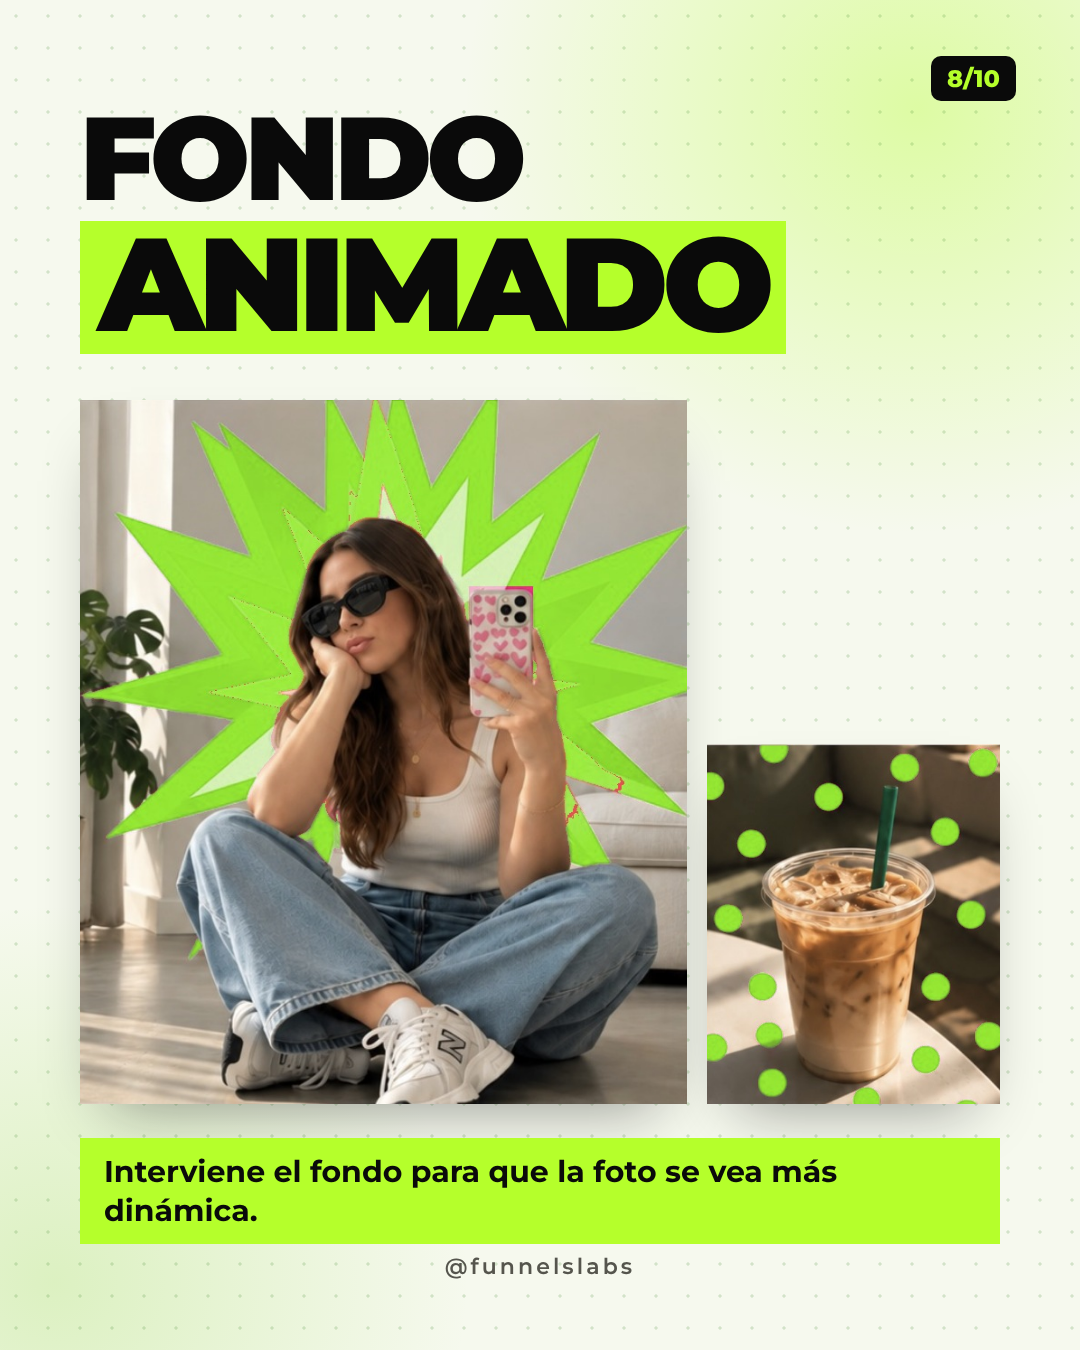
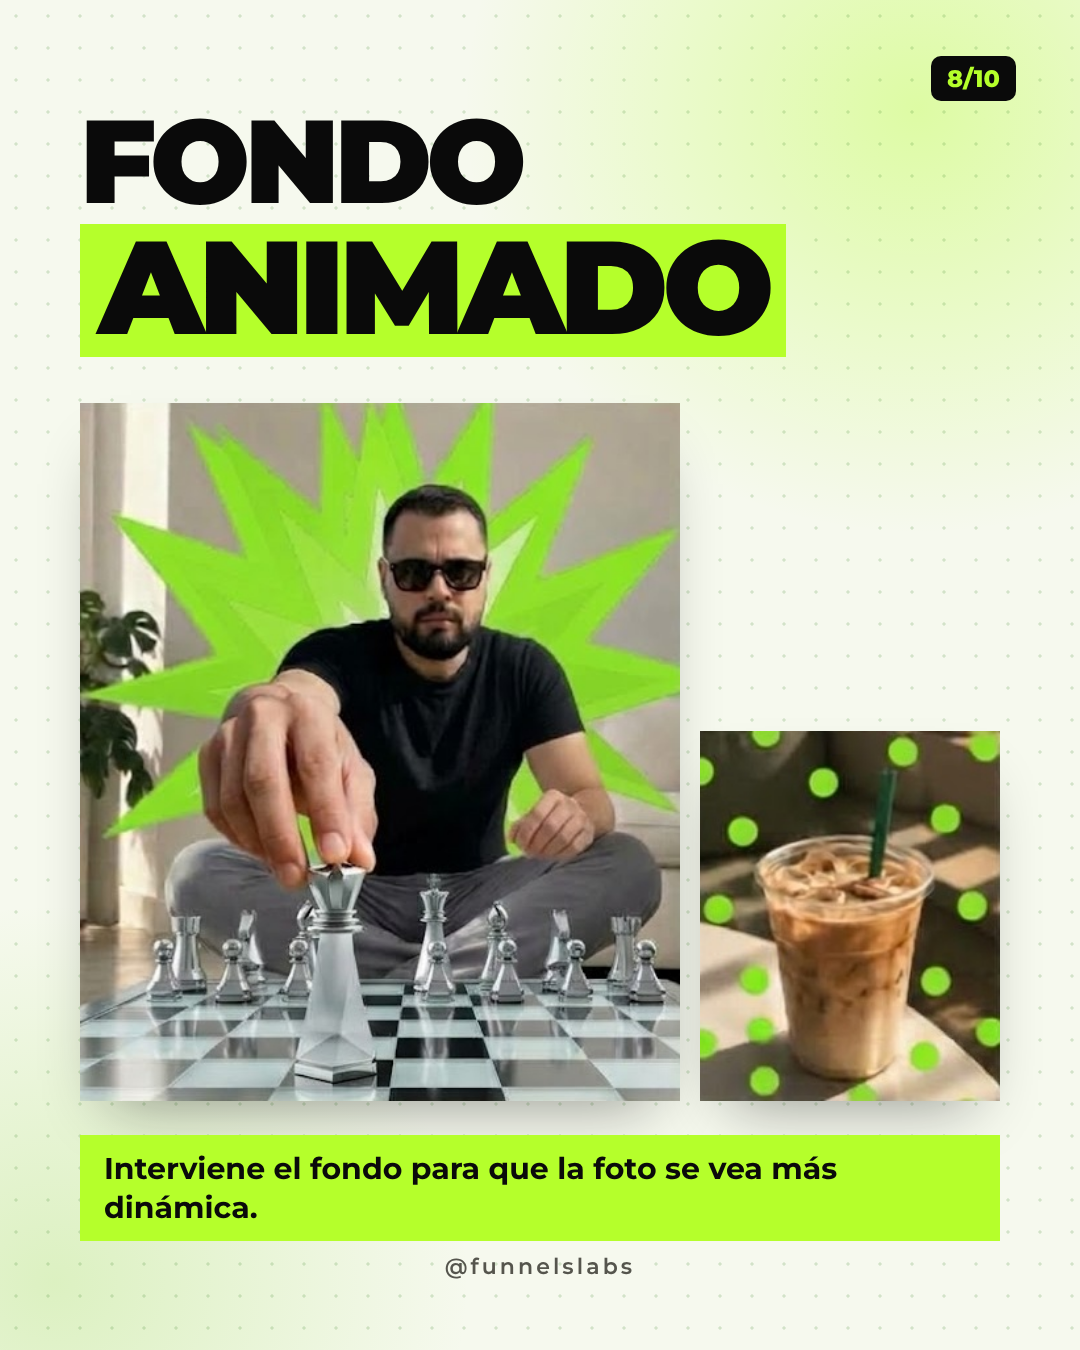
Fondo animado con fotos del hombre en estilo de marca
Claude-Session: https://claude.ai/code/session_018d4LXHkXweDJXxfN5x99dL

diff --git a/carruseles/ideas-carruseles/carrusel.html b/carruseles/ideas-carruseles/carrusel.html
@@ -98,8 +98,8 @@ body{background:#d9d9d2;font-family:"Montserrat",Arial,sans-serif;color:var(--in
   <div class="T" style="font-size:118px">Fondo</div>
   <div class="T hl" style="font-size:132px;align-self:flex-start;margin-top:10px">animado</div>
   <div style="display:flex;gap:20px;margin-top:46px;align-items:flex-end">
-    <div class="ph" style="width:620px;height:704px"><img src="ref/r2a.jpg"></div>
-    <div class="ph" style="width:300px;height:360px"><img src="ref/r2b.jpg"></div>
+    <div class="ph" style="width:600px;height:698px"><img src="ref/fondo-a.jpg"></div>
+    <div class="ph" style="width:300px;height:370px"><img src="ref/fondo-b.jpg"></div>
   </div>
   <div class="cap">Interviene el fondo para que la foto se vea más dinámica.</div>
   <div class="handle">@funnelslabs</div>
